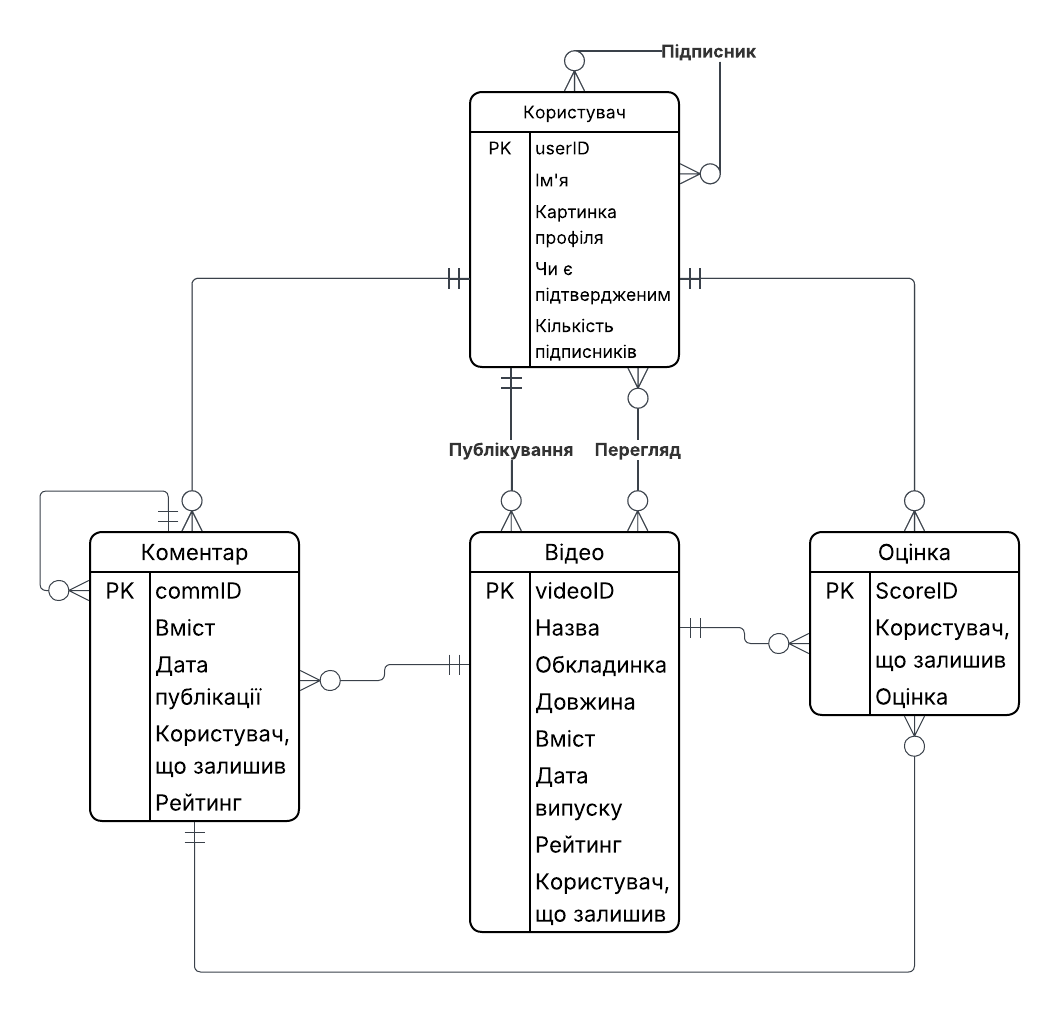
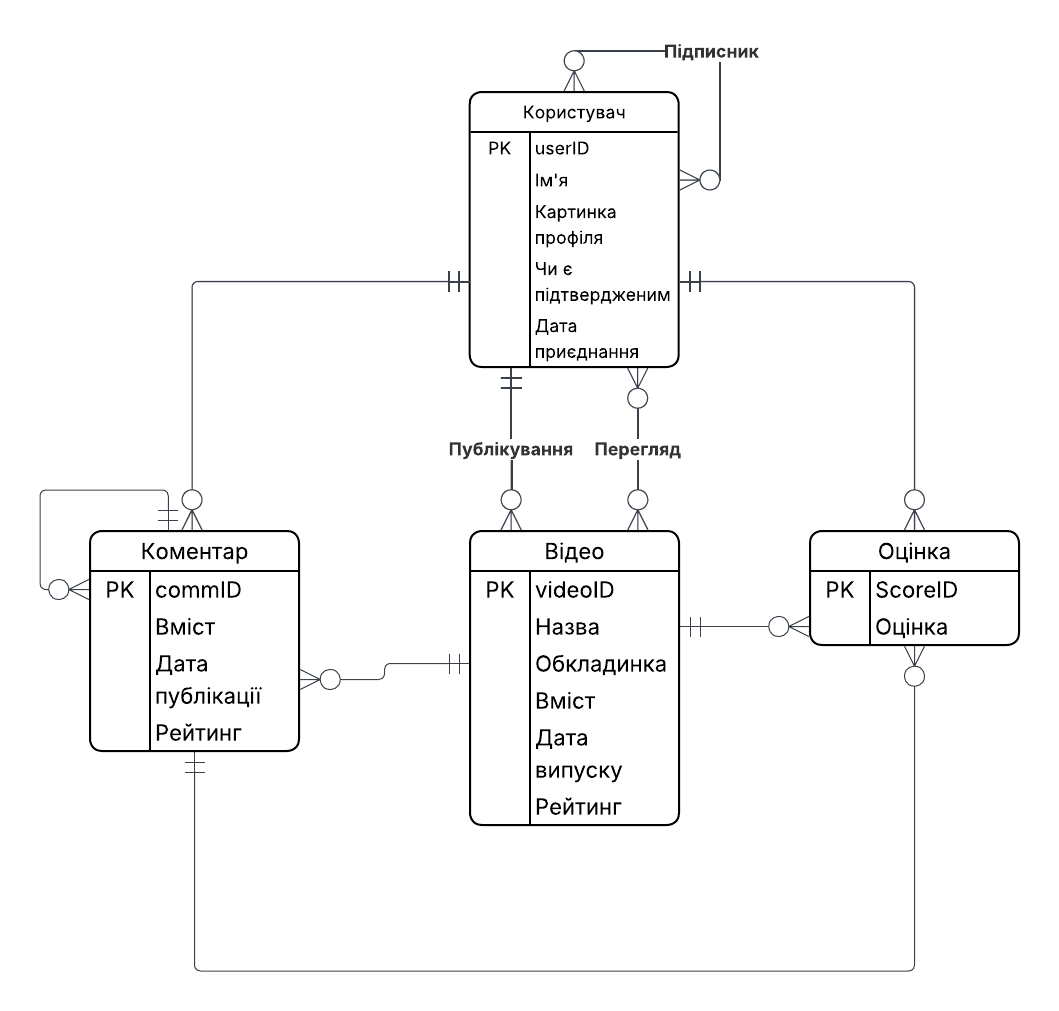
changed lab1

diff --git a/lab1/README.md b/lab1/README.md
@@ -13,10 +13,10 @@
 Оцінки працюють так, як вони працювали на ранньому YouTube або так, як вони досі працюють на newgrounds.com
  ### Релізація
  У базі даних зберігатимуться:
- - Користувач (ім'я, картинка профіля, чи є користувач підтвердженим, кількість підписників)
- - Відео (назва, обкладинка, довжина, вміст, дата випуску, рейтинг, користувач що залишив)
- - Коментар (вміст, дата публікації, рейтинг, користувач що залишив)
- - Оцінка (користувач, що залишив, оцінка)
+ - Користувач (ім'я, картинка профіля, чи є користувач підтвердженим, дата приєднання)
+ - Відео (назва, обкладинка, вміст, дата випуску, рейтинг)
+ - Коментар (вміст, дата публікації, рейтинг)
+ - Оцінка (оцінка)
 
 ![ER-діаграма](Modeldatabases.png)
 
@@ -41,3 +41,6 @@
 - Оцінка
     - може мати лише одного користувача-автора
     - кожна може належати лише одному окремому відео або коментарю
+
+### Припущення, що були зроблені
+"Вміст" у Відео, "Картинка профіля" та "Обкладинка" зберігаються у датабазі як назва файлу, наприклад "video.mp4", "picture.jfif".